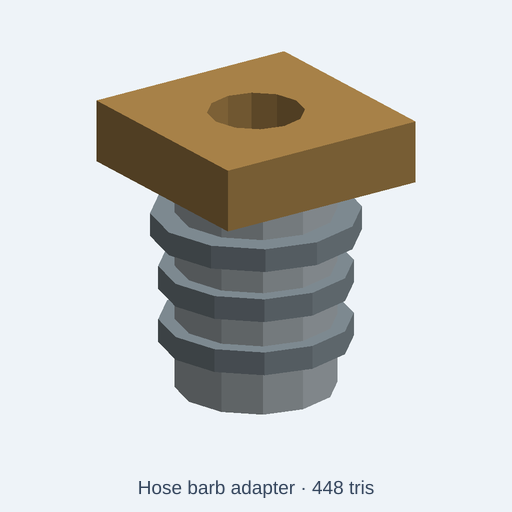
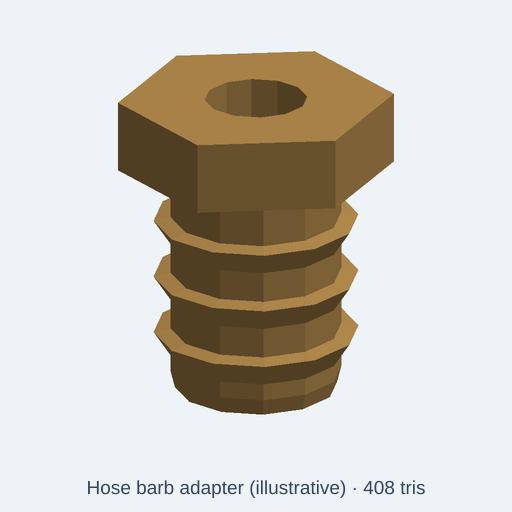
fix(catalog): model real tapered hose-barb retention features

Changed region(s): [[0.1875, 0.0938, 0.8125, 0.8125], [0.1562, 0.9375, 0.8438, 0.9688]]

diff --git a/tests/integration/catalog/hoseBarbFidelity.test.ts b/tests/integration/catalog/hoseBarbFidelity.test.ts
@@ -1,0 +1,119 @@
+// SPDX-License-Identifier: MIT
+// V grooves must have sloped flanks, two distinct roots, and a continuously open bore.
+// A stack of flat cylindrical steps can evaluate and still fail this engineering identity.
+import { beforeAll, describe, expect, it } from 'vitest';
+import { readFileSync } from 'node:fs';
+import { resolve } from 'node:path';
+import { NodeIO } from '@gltf-transform/core';
+import { initOcct } from '../../../src/kernel/backends/occt/occtBackend';
+import { buildCatalogAssetWithGlb } from '../../../src/agent/catalog/buildCatalog';
+import { runAndExport } from '../../../src/agent/script-runtime/export';
+import { glbTriangles, renderTrianglesPng } from '../../../scripts/lib/glbSoftwareRender';
+
+type V = [number, number, number];
+type Tri = [V, V, V];
+const root = resolve(import.meta.dirname, '../../..');
+const sourcePath = 'catalog/kits/standard-components/hose-barb-adapter.kcad.ts';
+const sub = (a: V, b: V): V => [a[0]-b[0], a[1]-b[1], a[2]-b[2]];
+const dot = (a: V, b: V) => a[0]*b[0]+a[1]*b[1]+a[2]*b[2];
+const cross = (a: V, b: V): V => [a[1]*b[2]-a[2]*b[1], a[2]*b[0]-a[0]*b[2], a[0]*b[1]-a[1]*b[0]];
+function rayHits(tris: Tri[], start: V, direction: V): boolean {
+  return tris.some(tri => {
+    const edge1=sub(tri[1],tri[0]), edge2=sub(tri[2],tri[0]);
+    const p=cross(direction,edge2), determinant=dot(edge1,p);
+    if(Math.abs(determinant)<1e-9)return false;
+    const t=sub(start,tri[0]), u=dot(t,p)/determinant, q=cross(t,edge1);
+    const v=dot(direction,q)/determinant, distance=dot(edge2,q)/determinant;
+    return u>=-1e-7&&v>=-1e-7&&u+v<=1+1e-7&&distance>1e-6&&distance<200;
+  });
+}
+async function readMeshes(glb: Uint8Array, scale: number): Promise<Map<string,Tri[]>> {
+  // Low-poly positions are authored millimetres before scene-axis conversion.
+  const doc=await new NodeIO().readBinary(glb), parts=new Map<string,Tri[]>();
+  for(const node of doc.getRoot().listNodes()) {
+    const mesh=node.getMesh(); if(!mesh)continue;
+    const tris:Tri[]=[];
+    for(const primitive of mesh.listPrimitives()) {
+      const pos=primitive.getAttribute('POSITION')!, indices=primitive.getIndices();
+      const count=indices?indices.getCount():pos.getCount();
+      for(let i=0;i<count;i+=3)tris.push([0,1,2].map(k=>
+        pos.getElement(indices?indices.getScalar(i+k):i+k,[]).map(v=>v/scale) as V
+      ) as Tri);
+    }
+    parts.set(node.getName(),tris);
+  }
+  return parts;
+}
+function components(tris: Tri[]): number {
+  const parent=new Map<string,string>();
+  const find=(key:string):string=>{const p=parent.get(key)!;if(p===key)return key;const r=find(p);parent.set(key,r);return r;};
+  for(const tri of tris) {
+    const keys=tri.map(v=>v.map(x=>x.toFixed(4)).join(','));
+    for(const key of keys)if(!parent.has(key))parent.set(key,key);
+    for(const key of keys.slice(1))parent.set(find(key),find(keys[0]));
+  }
+  return new Set([...parent.keys()].map(find)).size;
+}
+// The low-poly GLB POSITION accessor is authored Z-up; node world transform converts for the renderer.
+function outerAt(tris:Tri[],r:number,z:number):boolean {
+  return rayHits(tris,[r,0,z],[1,0,0]);
+}
+function axialAt(tris:Tri[],r:number):boolean {
+  return rayHits(tris,[r,0,-2],[0,0,1]);
+}
+function verify(parts:Map<string,Tri[]>) {
+  expect([...parts.keys()]).toEqual(['single-piece-bored-barbed-fitting']);
+  const body=parts.get('single-piece-bored-barbed-fitting')!;
+  expect(components(body),'spigot and hex wrench are one connected casting').toBe(1);
+  const pts=body.flat();
+  const min=[0,1,2].map(k=>Math.min(...pts.map(v=>v[k]))),max=[0,1,2].map(k=>Math.max(...pts.map(v=>v[k])));
+  expect(min[2]).toBeCloseTo(0,2);expect(max[2]).toBeCloseTo(36,2);
+  expect(max[0]-min[0]).toBeCloseTo(28,2);
+  expect(max[1]-min[1]).toBeCloseTo(2*28/Math.sqrt(3),2);
+  // Each barcode is not a straight cylindrical washer. Follow the actual tapered
+  // outward wall through its rise and rapid undercut on the retention shoulder.
+  for(const bottom of [4,11,18]) {
+    expect(outerAt(body,11.25,bottom+0.5),`start of taper ${bottom}`).toBe(false);
+    expect(outerAt(body,11.25,bottom+2.5),`high taper ${bottom}`).toBe(true);
+    expect(outerAt(body,11.25,bottom+3.25),`sharp retaining shoulder ${bottom}`).toBe(false);
+    expect(outerAt(body,9,bottom+2.5),`wall below barb ${bottom}`).toBe(true);
+  }
+  for(const r of [0,5.8])expect(axialAt(body,r),`full-length axial bore at r=${r}`).toBe(false);
+  expect(axialAt(body,7.5),'real spigot wall around bore').toBe(true);
+  // Six genuine flats: across flats X=28, while the ±Y vertices extend beyond 15 mm.
+  expect(rayHits(body,[13.5,0,32],[1,0,0]),'X flat interior').toBe(true);
+  expect(rayHits(body,[14.5,0,32],[1,0,0]),'X flat exterior').toBe(false);
+  expect(rayHits(body,[0,15,32],[0,1,0]),'hex vertex region at Y=15').toBe(true);
+}
+beforeAll(async()=>{await initOcct();},30000);
+describe('illustrative hose barb adapter real tapered lips and bore',()=>{
+  it('committed gallery preview matches native evaluated source with canonical title',async()=>{
+    const {asset,glb}=await buildCatalogAssetWithGlb(root,sourcePath);
+    const rendered=await renderTrianglesPng(await glbTriangles(glb),{label:`${asset.title} · ${asset.stats.triangles} tris`});
+    const preview=readFileSync(resolve(root,'catalog/kits/standard-components/previews/hose-barb-adapter.png'));
+    expect(Buffer.compare(rendered,preview),'stale previews must fail even if source compiles').toBe(0);
+  },30000);
+  for(const [size,scale] of [['standard',1],['compact',0.75],['large',1.25]] as const){
+    it(`${size}: three tapered retention lips, one through-bored connected body and hex wrench`,async()=>{
+      const source=readFileSync(resolve(root,sourcePath),'utf8');
+      const built=await buildCatalogAssetWithGlb(root,sourcePath);
+      const code=source.replace("param('size', 'standard'",`param('size', '${size}'`);
+      const exp=size==='standard'?{bytes:built.glb,diagnostics:[]}:await runAndExport({code,fileName:'hose-barb-adapter.kcad.ts',scriptDir:resolve(root,'catalog/kits/standard-components'),format:'glb',options:{format:'glb',style:'lowpoly',lowpoly:{maxTriangles:built.asset.triangleBudget}}});
+      expect(exp.diagnostics.filter(d=>d.severity==='error')).toEqual([]);
+      verify(await readMeshes(exp.bytes,scale));
+      expect(built.asset.description).toMatch(/not manufacturer-grade CAD/i);
+      expect(built.asset.description).toMatch(/three real tapered retention lips/i);
+      expect(built.asset.stats.triangles).toBeLessThanOrEqual(built.asset.triangleBudget);
+      expect(built.asset.stats.minUpM).toBeCloseTo(0,6);
+    },60000);
+  }
+  it('original source has three separate cylindrical collars, not tapered connected barbs',async()=>{
+    const source=readFileSync(resolve(root,'docs/quality/evidence/hose-barb-20261115/original-source.kcad.ts'),'utf8');
+    const exp=await runAndExport({code:source,fileName:'old-hose-barb.kcad.ts',scriptDir:resolve(root,'catalog/kits/standard-components'),format:'glb',options:{format:'glb',style:'lowpoly',lowpoly:{maxTriangles:500}}});
+    expect(exp.diagnostics.filter(d=>d.severity==='error')).toEqual([]);
+    const parts=await readMeshes(exp.bytes,1);
+    expect(parts.size).toBe(5);
+    expect([...parts.keys()].filter(n=>n.startsWith('barb-')).length).toBe(3);
+    expect(()=>verify(parts)).toThrow();
+  },60000);
+});

diff --git a/catalog/kits/standard-components/hose-barb-adapter.kcad.ts b/catalog/kits/standard-components/hose-barb-adapter.kcad.ts
@@ -1,31 +1,48 @@
-// Distinctive geometry: Stepped hose-barb adapter with a hollow center and three grip ribs
+// SPDX-License-Identifier: CC0-1.0
+// Low-poly, single-piece stepped hose barb fitting. Not a certified pressure fitting.
 meta({
   name: 'hose-barb-adapter',
   license: 'CC0-1.0',
-  title: 'Hose barb adapter',
-  description: 'Stepped hose-barb adapter with a hollow center and three grip ribs Knobs: model size, steel, stainless steel, brass.',
-  tags: ['hose barb', 'hose adapter', 'barbed fitting', 'plumbing'],
+  title: 'Hose barb adapter (illustrative)',
+  description: 'Illustrative CC0 one-piece hose-barb adapter with three real tapered retention lips, a continuous axial bore, and six wrench flats. Nominal envelope only, not manufacturer-grade CAD: hose-ID compatibility, insertion/retention forces, pressure rating, thread form, machining tolerance and material grade are not specified. Size and appearance colors are visual controls, not a parts standard.',
+  tags: ['hose barb', 'hose adapter', 'barbed fitting', 'plumbing', 'CC0', 'scene prop'],
   kit: 'standard-components',
   category: 'attachment',
   origin: 'base',
   compat: ['mechanical', 'industrial', 'workshop', 'assembly'],
   triangleBudget: 500,
 });
-
-const size = param('size', 'standard', { choices: ['compact', 'standard', 'large'], label: 'Model size' });
-const steel = param('steel', '#85929a', { label: 'Steel' });
-const stainless = param('stainless', '#b8c1c6', { label: 'Stainless steel' });
-const brass = param('brass', '#b28a4d', { label: 'Brass' });
+const size = param('size', 'standard', { choices: ['compact', 'standard', 'large'], label: 'Illustrative model size' });
+const metalColor = param('brass', '#b28a4d', { label: 'Metal appearance color' });
 presets({
-  dark: { steel: '#3e484e', stainless: '#7d8a91', brass: '#725938' },
-  brass: { steel: '#646f75', stainless: '#b38b52', brass: '#c0944d' },
-  weathered: { steel: '#665b4d', stainless: '#8b8275', brass: '#8c734d' }
+  dark: { brass: '#725938' },
+  brass: { brass: '#c0944d' },
+  weathered: { brass: '#8c734d' },
 });
 
 const s = size.value === 'compact' ? 0.75 : size.value === 'large' ? 1.25 : 1;
-const block = (x: number, y: number, z: number, w: number, d: number, h: number) => box(w, d, h).translate(x, y, z);
+// A lathed spigot cross-section with three genuine conical barbs: gradual ramps
+// towards the wrench end, then abrupt retaining shoulders at z=7/14/21 mm.
+// It retains a 12 mm axial fluid passage throughout the 36 mm nominal length.
+const outer: [number,number][] = [
+  [9.5,0], [10,2], [10,4], [12,7], [10,7.4],
+  [10,11], [12,14], [10,14.4],
+  [10,18], [12,21], [10,21.4], [10,28],
+];
+let section = path().moveTo(6*s,0);
+for(const [r,z] of outer) section=section.lineTo(r*s,z*s);
+section=section.lineTo(6*s,28*s).close();
+const spigot=section.revolve();
+// True six-flat wrench prism, AF28, not a square decoration.
+const circumradius = 28/Math.sqrt(3);
+const hex = Array.from({length:6},(_,i)=>{
+  const angle=(i*60+30)*Math.PI/180;
+  return [circumradius*s*Math.cos(angle),circumradius*s*Math.sin(angle)] as [number,number];
+});
+const wrench = extrudePolygon(hex,8.5*s)
+  .subtract(cylinder(9.5*s,6*s,16).translate(0,0,-0.5*s))
+  .translate(0,0,27.5*s);
+const fitting = spigot.union(wrench).color(metalColor);
 const a = assembly('hose-barb-adapter');
-a.part('stem',cylinder(28*s,10*s,8).subtract(cylinder(30*s,6*s,8).translate(0,0,-s)).color(stainless));
-for (const z of [6,13,20]) a.part(`barb-${z}`,cylinder(3*s,(z===20?13:12)*s,8).subtract(cylinder(5*s,6*s,8).translate(0,0,-s)).translate(0,0,z*s).color(steel));
-a.part('hex-body',block(-14*s,-14*s,28*s,28*s,28*s,8*s).subtract(cylinder(10*s,6*s,8).translate(0,0,27*s)).color(brass));
+a.part('single-piece-bored-barbed-fitting',fitting);
 return a.model();

diff --git a/docs/quality/evidence/hose-barb-20261115/original-source.kcad.ts b/docs/quality/evidence/hose-barb-20261115/original-source.kcad.ts
@@ -1,0 +1,31 @@
+// Distinctive geometry: Stepped hose-barb adapter with a hollow center and three grip ribs
+meta({
+  name: 'hose-barb-adapter',
+  license: 'CC0-1.0',
+  title: 'Hose barb adapter',
+  description: 'Stepped hose-barb adapter with a hollow center and three grip ribs Knobs: model size, steel, stainless steel, brass.',
+  tags: ['hose barb', 'hose adapter', 'barbed fitting', 'plumbing'],
+  kit: 'standard-components',
+  category: 'attachment',
+  origin: 'base',
+  compat: ['mechanical', 'industrial', 'workshop', 'assembly'],
+  triangleBudget: 500,
+});
+
+const size = param('size', 'standard', { choices: ['compact', 'standard', 'large'], label: 'Model size' });
+const steel = param('steel', '#85929a', { label: 'Steel' });
+const stainless = param('stainless', '#b8c1c6', { label: 'Stainless steel' });
+const brass = param('brass', '#b28a4d', { label: 'Brass' });
+presets({
+  dark: { steel: '#3e484e', stainless: '#7d8a91', brass: '#725938' },
+  brass: { steel: '#646f75', stainless: '#b38b52', brass: '#c0944d' },
+  weathered: { steel: '#665b4d', stainless: '#8b8275', brass: '#8c734d' }
+});
+
+const s = size.value === 'compact' ? 0.75 : size.value === 'large' ? 1.25 : 1;
+const block = (x: number, y: number, z: number, w: number, d: number, h: number) => box(w, d, h).translate(x, y, z);
+const a = assembly('hose-barb-adapter');
+a.part('stem',cylinder(28*s,10*s,8).subtract(cylinder(30*s,6*s,8).translate(0,0,-s)).color(stainless));
+for (const z of [6,13,20]) a.part(`barb-${z}`,cylinder(3*s,(z===20?13:12)*s,8).subtract(cylinder(5*s,6*s,8).translate(0,0,-s)).translate(0,0,z*s).color(steel));
+a.part('hex-body',block(-14*s,-14*s,28*s,28*s,28*s,8*s).subtract(cylinder(10*s,6*s,8).translate(0,0,27*s)).color(brass));
+return a.model();

diff --git a/docs/quality/hose-barb-2026-11-15.md b/docs/quality/hose-barb-2026-11-15.md
@@ -1,0 +1,27 @@
+# Hose barb adapter: tapered retention features, not separate flat collars
+
+November 15, 2026. This fixes the semantic identity of an **illustrative CC0 prop**; it does **not** certify a pressure-rated fitting, a specific hose material or ID, fatigue, insertion force, machining tolerance, thread, metal alloy or production interface.
+
+## Confirmed original defect
+
+The published model titled *Hose barb adapter* displayed five detached source bodies: hollow spigot, three flat cylinders (labelled “barbs”), and a square wrench block. The “barbs” were radially uniform stacked rings; they had **no taper ramp or retention shoulder**. The nominal hex was a square block rather than six wrench flats. All these pieces individually compiled and a PNG existed, but the model lacked the advertised functional geometry.
+
+## Focused change
+
+One connected machined-form fitting with a through passage Ø12 mm and a hex wrench at the rear, **28 mm across flats**. The retained nose/spigot is a revolved profile with *three actual conical retention ramps*, stepping down sharply after the peaks. The overall nominal axial extent remains 36 mm. The illustrative metal color remains the `brass` appearance control; the old `steel`/`stainless` knobs and presets were removed because a one-piece fitting cannot truthfully present different body finishes. These are appearance controls, not metal specifications; saved models relying on removed color knobs must use `brass` instead.
+
+![Native before/after previews](evidence/hose-barb-20261115/before-after.png)
+
+[Six-second before/after native-render comparison](evidence/hose-barb-20261115/native-comparison.mp4). The before image was downloaded from the live catalog; the after image is the deterministic canonical `renderCatalogPreviews.ts` output of the tested source. Neither demonstrates mechanical pullout tests, pressure service, manufacturing readiness or WebGL acceptance. The [unmodified original source](evidence/hose-barb-20261115/original-source.kcad.ts) is a deliberately failing negative control.
+
+## Repeatable native tests
+
+`tests/integration/catalog/hoseBarbFidelity.test.ts` checks all three default/compact/large presets and the original defect. It verifies **one connected body** instead of five separate pieces; the outer radial occupancy at each of three taper starting points, high flanks and sharp retaining shoulders; Ø12 mm continuous axial bore with positive wall control; real six flats at the 28 mm width; actual top/bottom dimensions; and source metadata limiting manufacturing claims. The original five-body/square-block source still compiles but fails the intended checks.
+
+Targeted result: **9/9** focused cases, consisting of 5 native/fidelity/preview cases and 4 existing asset-module cases, passed. ESLint passed. All **2,402/2,402** catalog source/index hashes match; only the adapter record changed. The new preview is **408 triangles within the unchanged 500 budget**, generated with the canonical asset-title caption and verified byte-equal from native GLB in a regression test. No all-asset native CI is claimed here; exact-head GitHub lint/build/test/catalog-index remains the merge gate. Native geometry is not a manufacturer certification.
+
+Node 24.22.2, reused dependency checkout, max 1 Vitest worker and 2GiB heap. Fresh isolated source worktree; no private Studio code, supplier quotations, customer models or concurrent PR modified.
+
+## Production gate
+
+Merge only after normal review/CI. After the marketing publication completes, compare actual source and both PNG bytes against the exact merged commit, check the live per-asset page and Studio link, then rerun the native checks against the **downloaded live source**. Do not call an open or merged PR a deployed repair.
